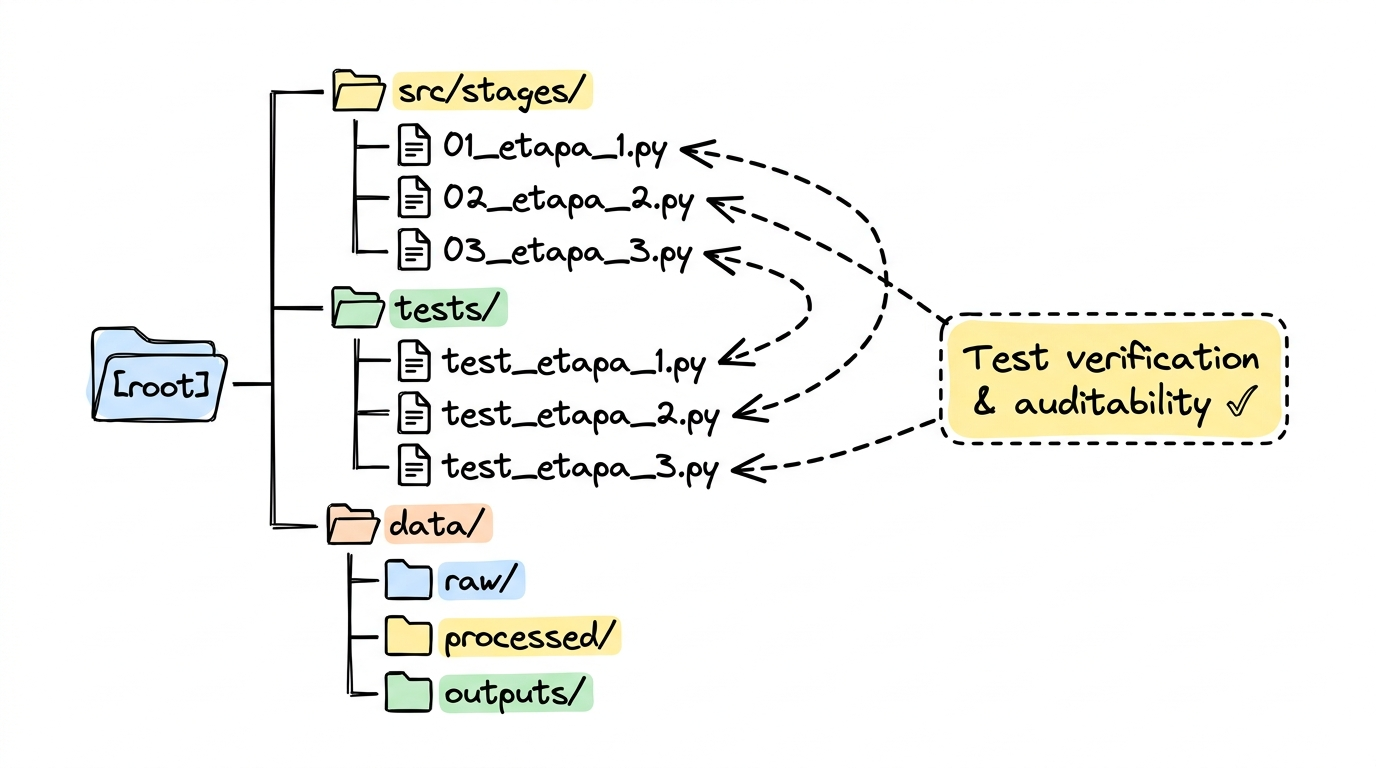
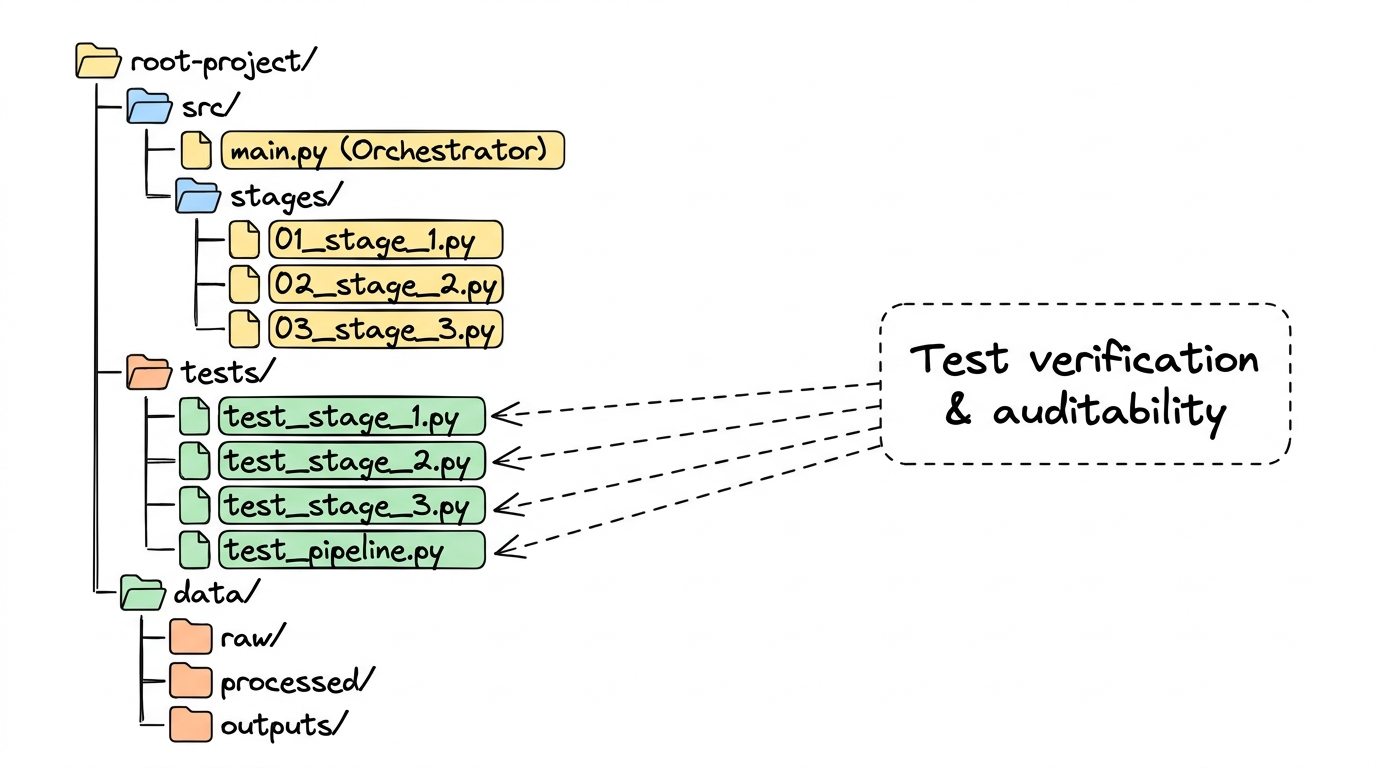
refactor(blog): add pipeline orchestrator and generalize architecture comments

diff --git a/src/data/portfolio.ts b/src/data/portfolio.ts
@@ -362,18 +362,19 @@ export const portfolioData: PortfolioConfig = {
           ],
           code: {
             language: "text",
-            code: "research-project/\n├── data/\n│   ├── raw/                  # Pristine API responses and raw dumps (read-only, never modified)\n│   ├── processed/            # Cleaned, schema-validated JSON records and checkpoints\n│   └── outputs/              # Final publication-ready matrices, CSVs, and plots\n├── src/\n│   └── stages/\n│       ├── 01_etapa_1.py         # Single responsibility: Stage 1 data extraction & caching\n│       ├── 02_etapa_2.py         # Stage 2: parsing, deduplication, schema normalization\n│       └── 03_etapa_3.py         # Stage 3: AI enrichment with strict schema, metrics calculation\n└── tests/\n    ├── test_etapa_1.py           # Verifies Stage 1 extraction integrity and schema invariants\n    ├── test_etapa_2.py           # Verifies Stage 2 sanitization and deterministic transitions\n    └── test_etapa_3.py           # Verifies Stage 3 JSON schema conformance and outputs",
-            caption: "Directory layout enforcing single-responsibility stages and automated test coverage."
+            code: "research-project/\n├── data/\n│   ├── raw/                  # Immutable primary inputs and upstream data snapshots\n│   ├── processed/            # Validated intermediate transformation checkpoints\n│   └── outputs/              # Final deterministic research artifacts (matrices, figures, tables)\n├── src/\n│   ├── main.py               # Orchestrator: manages execution flow, logs checkpoints, and handles errors\n│   └── stages/\n│       ├── 01_stage_1.py     # Stage 1: Ingests raw inputs and guarantees immutable caching\n│       ├── 02_stage_2.py     # Stage 2: Applies intermediate transformation rules and schema validation\n│       └── 03_stage_3.py     # Stage 3: Executes analytical models and emits final research outputs\n└── tests/\n    ├── test_stage_1.py       # Unit tests verifying Stage 1 data extraction and format invariants\n    ├── test_stage_2.py       # Unit tests verifying Stage 2 transformation contracts\n    ├── test_stage_3.py       # Unit tests verifying Stage 3 analytical consistency and bounds\n    └── test_pipeline.py      # Integration test executing and verifying the pipeline end-to-end",
+            caption: "Directory layout enforcing centralized orchestration, single-responsibility stages, and automated test coverage."
           }
         },
         {
           paragraphs: [
-            "This layout enforces three practical safeguards:"
+            "This layout enforces four practical safeguards:"
           ],
           bullets: [
-            "Fault Isolation: If Stage 1 extraction changes, only 01_etapa_1.py and test_etapa_1.py require updates. Stages 2 and 3 remain untouched.",
-            "Local Caching & Polite Scraping: Because raw responses persist in data/raw/, you can test and iterate on transformation logic hundreds of times without sending a single redundant HTTP request to external servers.",
-            "Auditability by Independent Peers: Any reviewer or collaborator can run pytest to inspect intermediate outputs and verify that every transformation behaves according to the published methodology."
+            "Centralized Orchestration: main.py is the single entry point that drives the entire pipeline sequentially. It checks preconditions, triggers each stage, validates exit status, and handles graceful error reporting without hardcoded coupling between individual steps.",
+            "Fault Isolation: If the requirements or format for Stage 1 change, only 01_stage_1.py and test_stage_1.py require updates. Stages 2 and 3 rely on standard intermediate schemas and remain completely untouched.",
+            "Immutable Checkpoints & Fast Iteration: Because every stage persists its results to distinct directories (data/raw/, data/processed/, data/outputs/), intermediate states are fully auditable. You can experiment with downstream analytical models without needing to re-run upstream ingestion.",
+            "Test-Driven Verification: Unit tests validate each transformation independently against defined data schemas, while test_pipeline.py ensures that a clean end-to-end execution generates reproducible artifacts."
           ]
         },
         {
